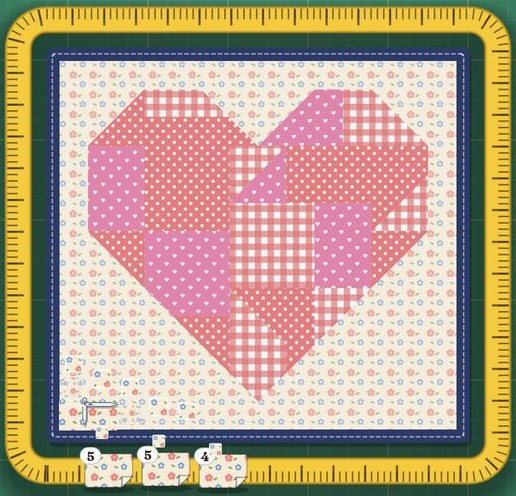
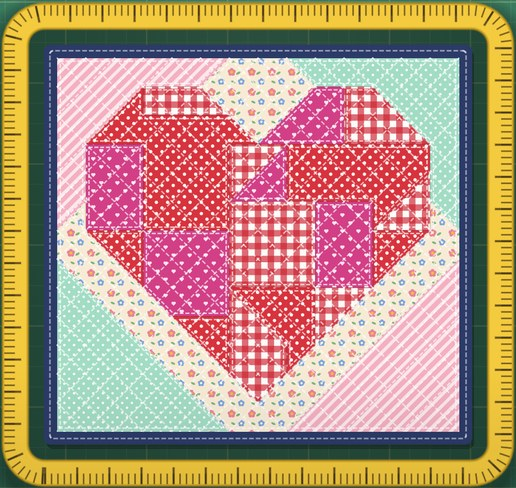
Mettre à jour les images du jeu et ajouter le Discord (#3)
Le cœur de l'accueil et la victoire du bocal sont repris du jeu d'aujourd'hui (v0.18.20).
Le serveur Discord du studio rejoint les liens de l'accueil.

Claude-Session: https://claude.ai/code/session_016DnDSSDjpRugdPANsbHMVD

diff --git a/index.html b/index.html
@@ -30,7 +30,7 @@
   <section id="jeux" aria-labelledby="jeux-titre">
     <h2 id="jeux-titre">Nos jeux</h2>
     <article class="card game">
-      <a href="/patchwork-party/"><img src="/assets/patchwork-party-coeur.jpg" alt="Un quilt en forme de cœur, cousu dans Patchwork Party" width="516" height="496"></a>
+      <a href="/patchwork-party/"><img src="/assets/patchwork-party-coeur.jpg" alt="Un quilt en forme de cœur, cousu dans Patchwork Party" width="516" height="488"></a>
       <div>
         <span class="badge">Bientôt sur Google Play</span>
         <h3>Patchwork Party</h3>
@@ -46,6 +46,7 @@
       <li><a href="https://www.tiktok.com/@pixelabsgames">TikTok</a></li>
       <li><a href="https://www.instagram.com/pixelabsgames/">Instagram</a></li>
       <li><a href="https://x.com/PixeLabsGames">X</a></li>
+      <li><a href="https://discord.gg/xBYfpyynkm">Discord</a></li>
       <li><a href="https://www.twitch.tv/pixelabsgames">Twitch</a></li>
       <li><a href="https://pixelabsgames.itch.io/">itch.io</a></li>
     </ul>
